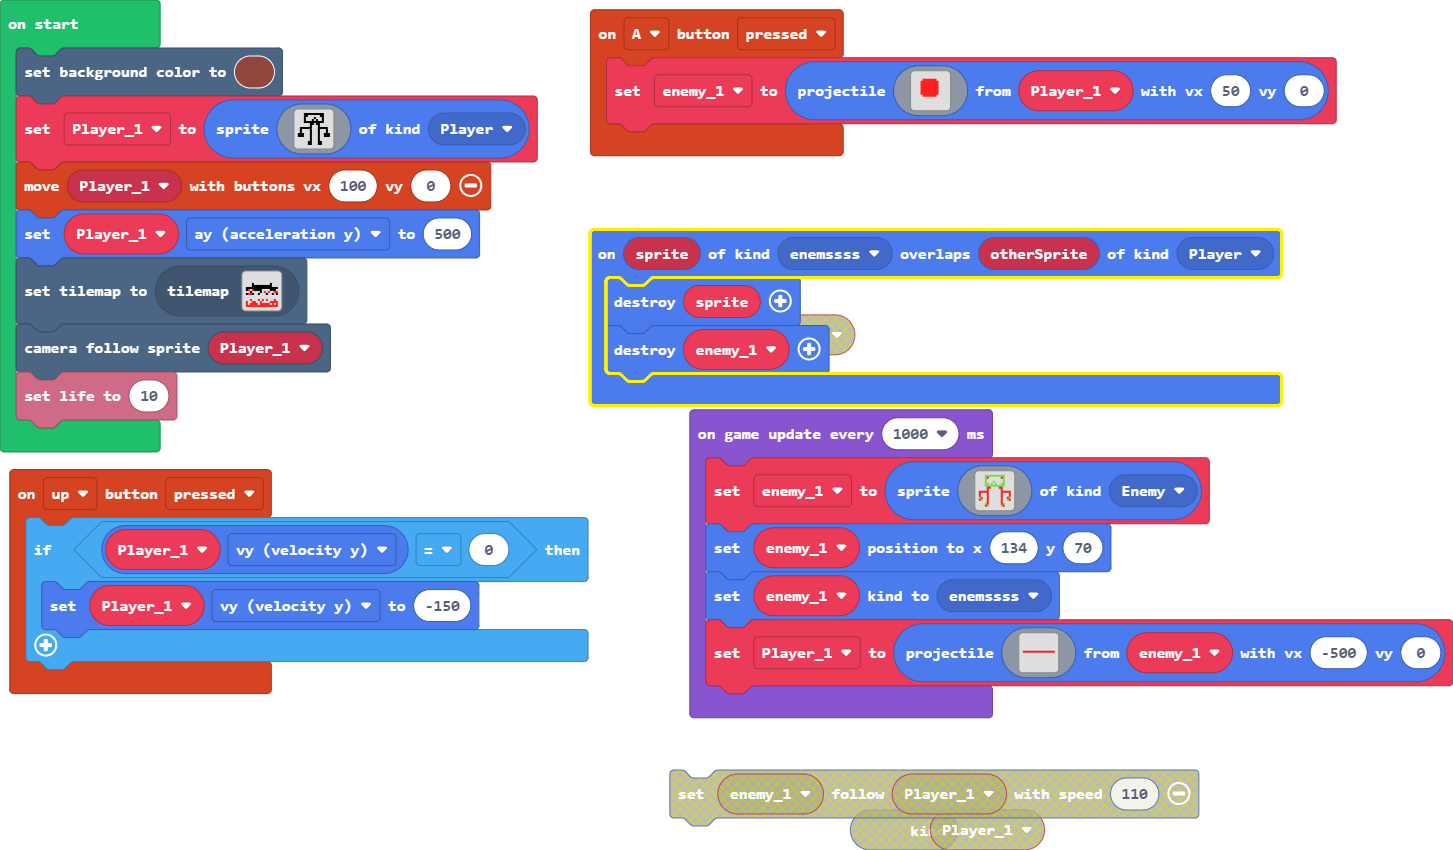
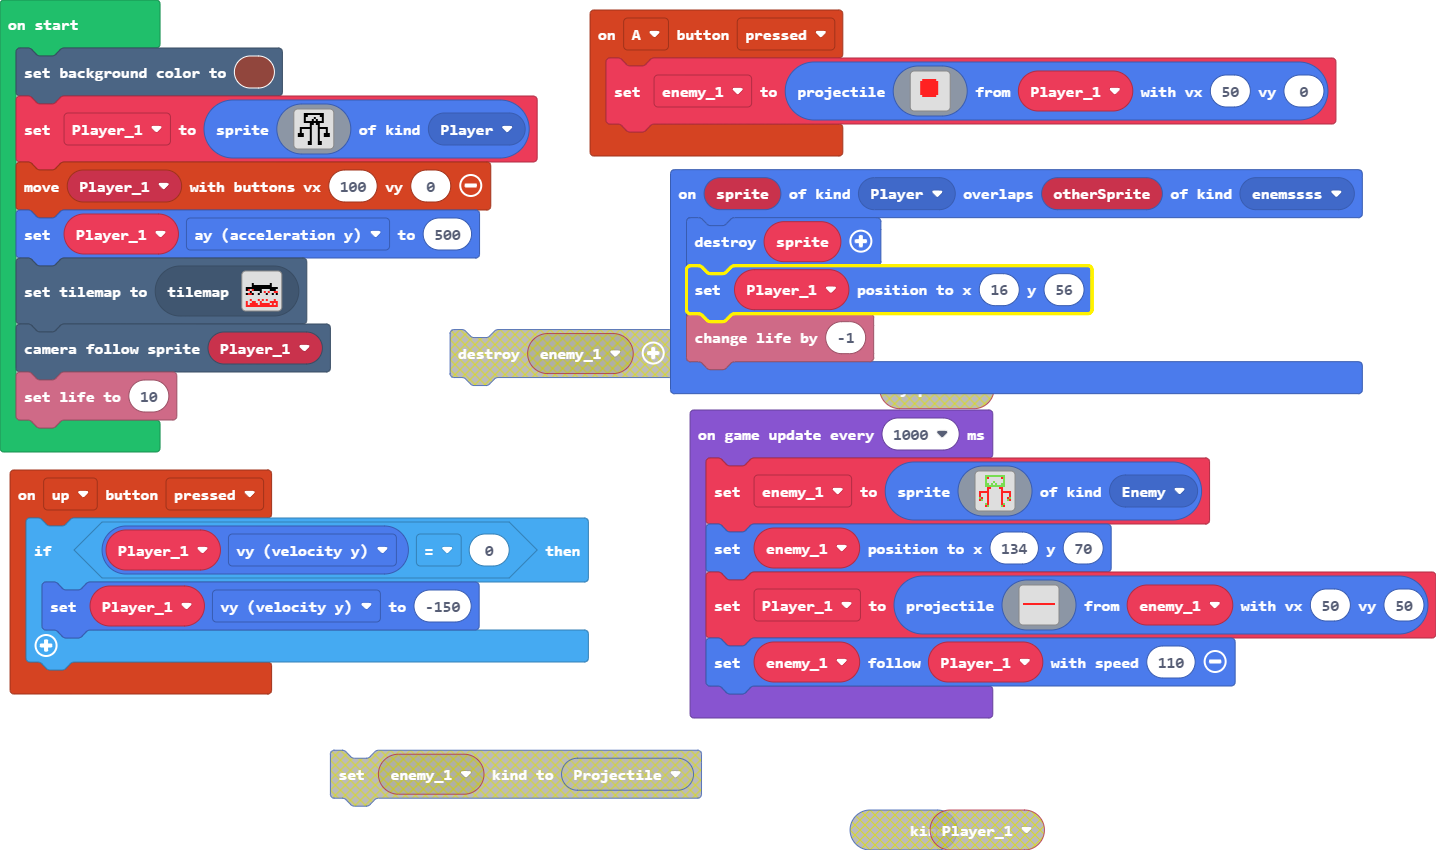
Update main.blocks, main.ts, main.py

diff --git a/main.ts b/main.ts
@@ -6,6 +6,11 @@ controller.up.onEvent(ControllerButtonEvent.Pressed, function () {
         Player_1.vy = -150
     }
 })
+sprites.onOverlap(SpriteKind.Player, SpriteKind.enemssss, function (sprite, otherSprite) {
+    sprites.destroy(sprite)
+    Player_1.setPosition(16, 56)
+    info.changeLifeBy(-1)
+})
 controller.A.onEvent(ControllerButtonEvent.Pressed, function () {
     enemy_1 = sprites.createProjectileFromSprite(img`
         . . . . . . . . . . . . . . . . 
@@ -25,10 +30,6 @@ controller.A.onEvent(ControllerButtonEvent.Pressed, function () {
         . . . . . . . . . . . . . . . . 
         . . . . . . . . . . . . . . . . 
         `, Player_1, 50, 0)
-})
-sprites.onOverlap(SpriteKind.enemssss, SpriteKind.Player, function (sprite, otherSprite) {
-    sprites.destroy(sprite)
-    sprites.destroy(enemy_1)
 })
 let enemy_1: Sprite = null
 let Player_1: Sprite = null
@@ -76,7 +77,6 @@ game.onUpdateInterval(1000, function () {
         . . . 2 7 . . . . . . 7 2 . . . 
         `, SpriteKind.Enemy)
     enemy_1.setPosition(134, 70)
-    enemy_1.setKind(SpriteKind.enemssss)
     Player_1 = sprites.createProjectileFromSprite(img`
         . . . . . . . . . . . . . . . . 
         . . . . . . . . . . . . . . . . 
@@ -94,5 +94,6 @@ game.onUpdateInterval(1000, function () {
         . . . . . . . . . . . . . . . . 
         . . . . . . . . . . . . . . . . 
         . . . . . . . . . . . . . . . . 
-        `, enemy_1, -500, 0)
+        `, enemy_1, 50, 50)
+    enemy_1.follow(Player_1, 110)
 })

diff --git a/main.py b/main.py
@@ -1,63 +1,41 @@
 @namespace
 class SpriteKind:
-    laser = SpriteKind.create()
+    enemssss = SpriteKind.create()
 
 def on_up_pressed():
     if Player_1.vy == 0:
         Player_1.vy = -150
 controller.up.on_event(ControllerButtonEvent.PRESSED, on_up_pressed)
 
-def on_overlap_tile(sprite3, location2):
-    game.game_over(True)
-    game.set_game_over_effect(True, effects.confetti)
-scene.on_overlap_tile(SpriteKind.enemy,
-    assets.tile("""
-        myTile
-    """),
-    on_overlap_tile)
-
-def on_overlap_tile2(sprite, location):
-    game.game_over(False)
-    game.set_game_over_effect(False, effects.melt)
-scene.on_overlap_tile(SpriteKind.player,
-    assets.tile("""
-        myTile
-    """),
-    on_overlap_tile2)
-
 def on_a_pressed():
     global enemy_1
-    Player_1.set_kind(SpriteKind.laser)
     enemy_1 = sprites.create_projectile_from_sprite(img("""
             . . . . . . . . . . . . . . . . 
                     . . . . . . . . . . . . . . . . 
+                    . . . . 2 2 2 2 2 2 2 . . . . . 
+                    . . . 2 2 2 2 2 2 2 2 2 . . . . 
+                    . . . 2 2 2 2 2 2 2 2 2 . . . . 
+                    . . . 2 2 2 2 2 2 2 2 2 . . . . 
+                    . . . 2 2 2 2 2 2 2 2 2 . . . . 
+                    . . . 2 2 2 2 2 2 2 2 2 . . . . 
+                    . . . 2 2 2 2 2 2 2 2 2 . . . . 
+                    . . . 2 2 2 2 2 2 2 2 2 . . . . 
+                    . . . . 2 2 2 2 2 2 2 . . . . . 
                     . . . . . . . . . . . . . . . . 
-                    . . . . 2 2 2 2 2 2 2 . . . . . 
-                    . . . 2 2 2 2 2 2 2 2 2 . . . . 
-                    . . . 2 2 2 2 2 2 2 2 2 . . . . 
-                    . . . 2 2 2 2 2 2 2 2 2 . . . . 
-                    . . . 2 2 2 2 2 2 2 2 2 . . . . 
-                    . . . 2 2 2 2 2 2 2 2 2 . . . . 
-                    . . . 2 2 2 2 2 2 2 2 2 . . . . 
-                    . . . 2 2 2 2 2 2 2 2 2 . . . . 
-                    . . . . 2 2 2 2 2 2 2 . . . . . 
                     . . . . . . . . . . . . . . . . 
                     . . . . . . . . . . . . . . . . 
                     . . . . . . . . . . . . . . . . 
                     . . . . . . . . . . . . . . . .
         """),
         Player_1,
-        100,
+        50,
         0)
 controller.A.on_event(ControllerButtonEvent.PRESSED, on_a_pressed)
 
-def on_on_overlap(sprite2, otherSprite):
-    Player_1.set_velocity(-100, 0)
-sprites.on_overlap(SpriteKind.projectile, SpriteKind.player, on_on_overlap)
-
-def on_on_overlap2(sprite4, otherSprite3):
-    sprites.destroy(otherSprite3)
-sprites.on_overlap(SpriteKind.laser, SpriteKind.enemy, on_on_overlap2)
+def on_on_overlap(sprite, otherSprite):
+    sprites.destroy(sprite)
+    sprites.destroy(enemy_1)
+sprites.on_overlap(SpriteKind.enemssss, SpriteKind.player, on_on_overlap)
 
 enemy_1: Sprite = None
 Player_1: Sprite = None
@@ -87,9 +65,10 @@ tiles.set_current_tilemap(tilemap("""
     level1
 """))
 scene.camera_follow_sprite(Player_1)
+info.set_life(10)
 
 def on_update_interval():
-    global enemy_1
+    global enemy_1, Player_1
     enemy_1 = sprites.create(img("""
             . . . 7 7 7 7 7 7 7 7 7 7 . . . 
                     . . . 7 2 . . . . . . 2 7 . . . 
@@ -110,7 +89,8 @@ def on_update_interval():
         """),
         SpriteKind.enemy)
     enemy_1.set_position(134, 70)
-    enemy_1 = sprites.create_projectile_from_sprite(img("""
+    enemy_1.set_kind(SpriteKind.enemssss)
+    Player_1 = sprites.create_projectile_from_sprite(img("""
             . . . . . . . . . . . . . . . . 
                     . . . . . . . . . . . . . . . . 
                     . . . . . . . . . . . . . . . . 
@@ -129,7 +109,6 @@ def on_update_interval():
                     . . . . . . . . . . . . . . . .
         """),
         enemy_1,
-        100,
+        -500,
         0)
-    enemy_1.follow(Player_1, 110)
 game.on_update_interval(1000, on_update_interval)
